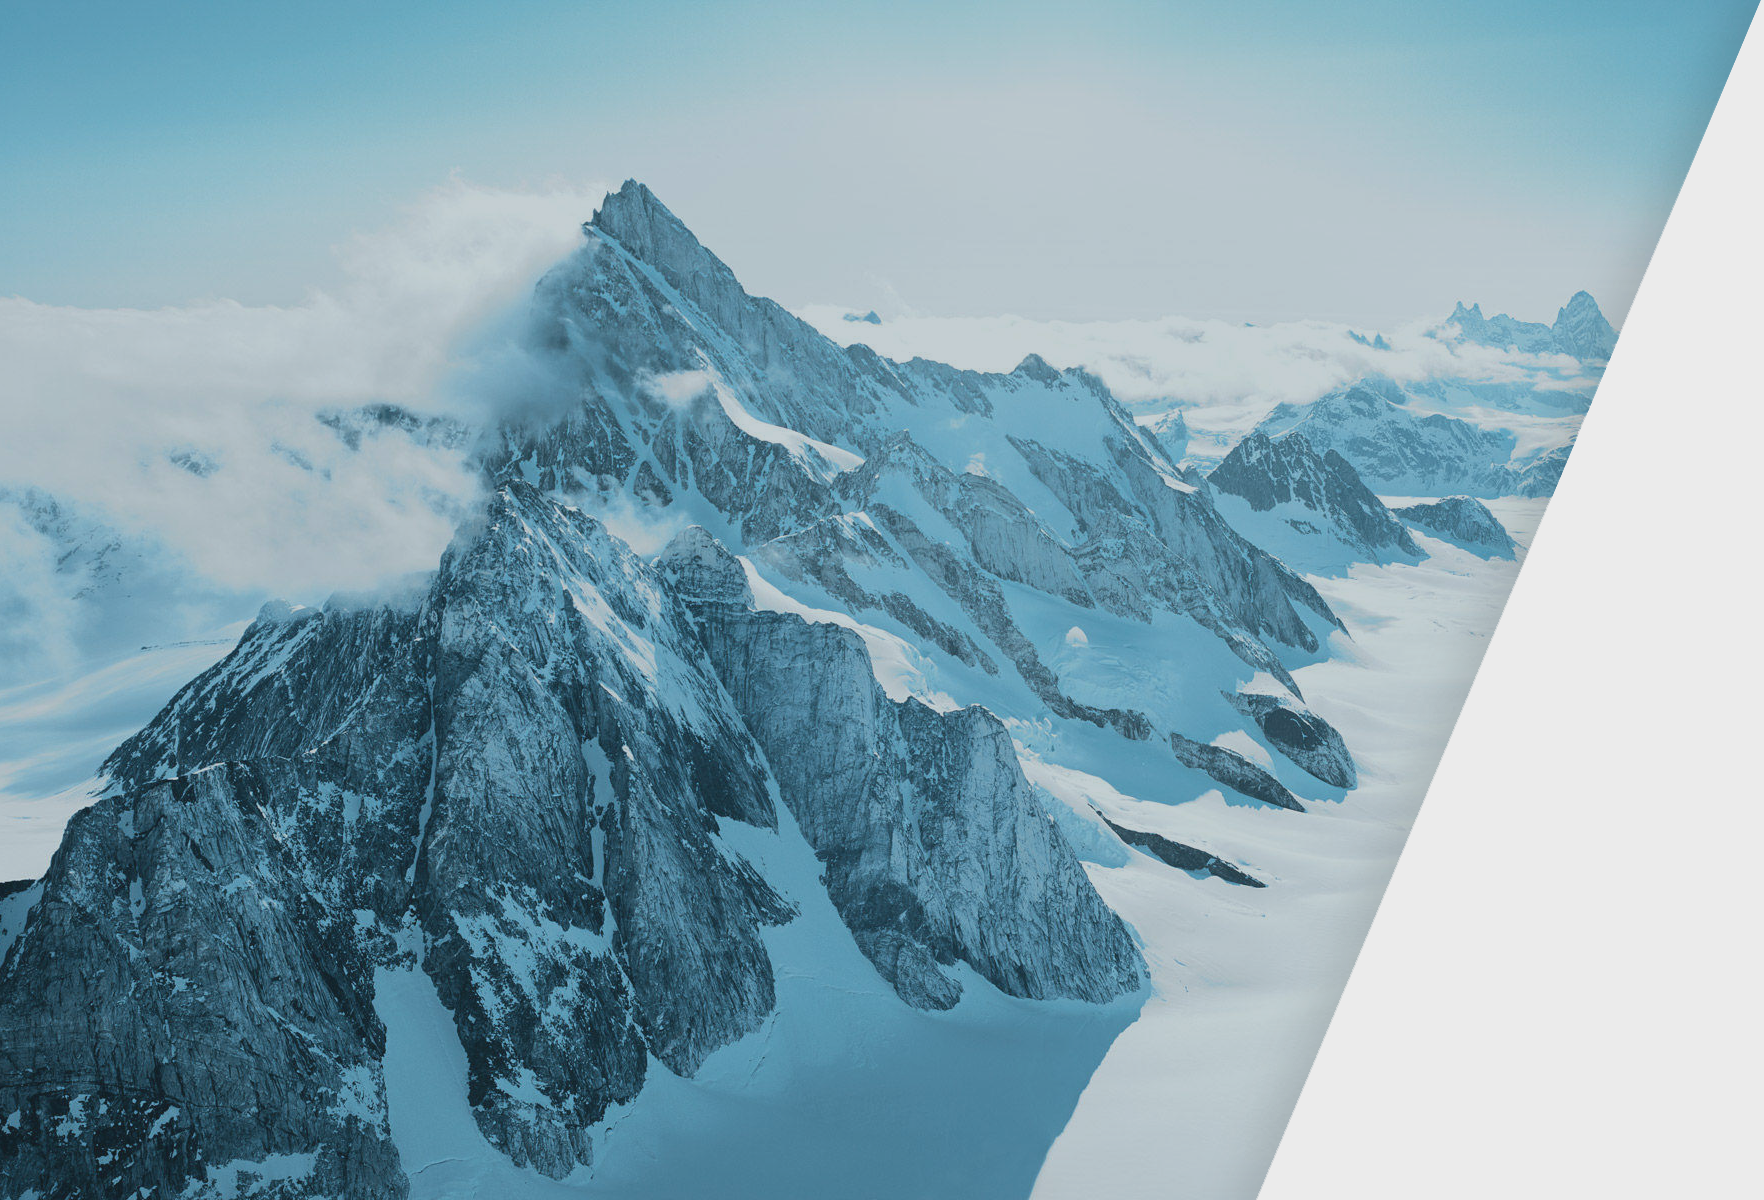
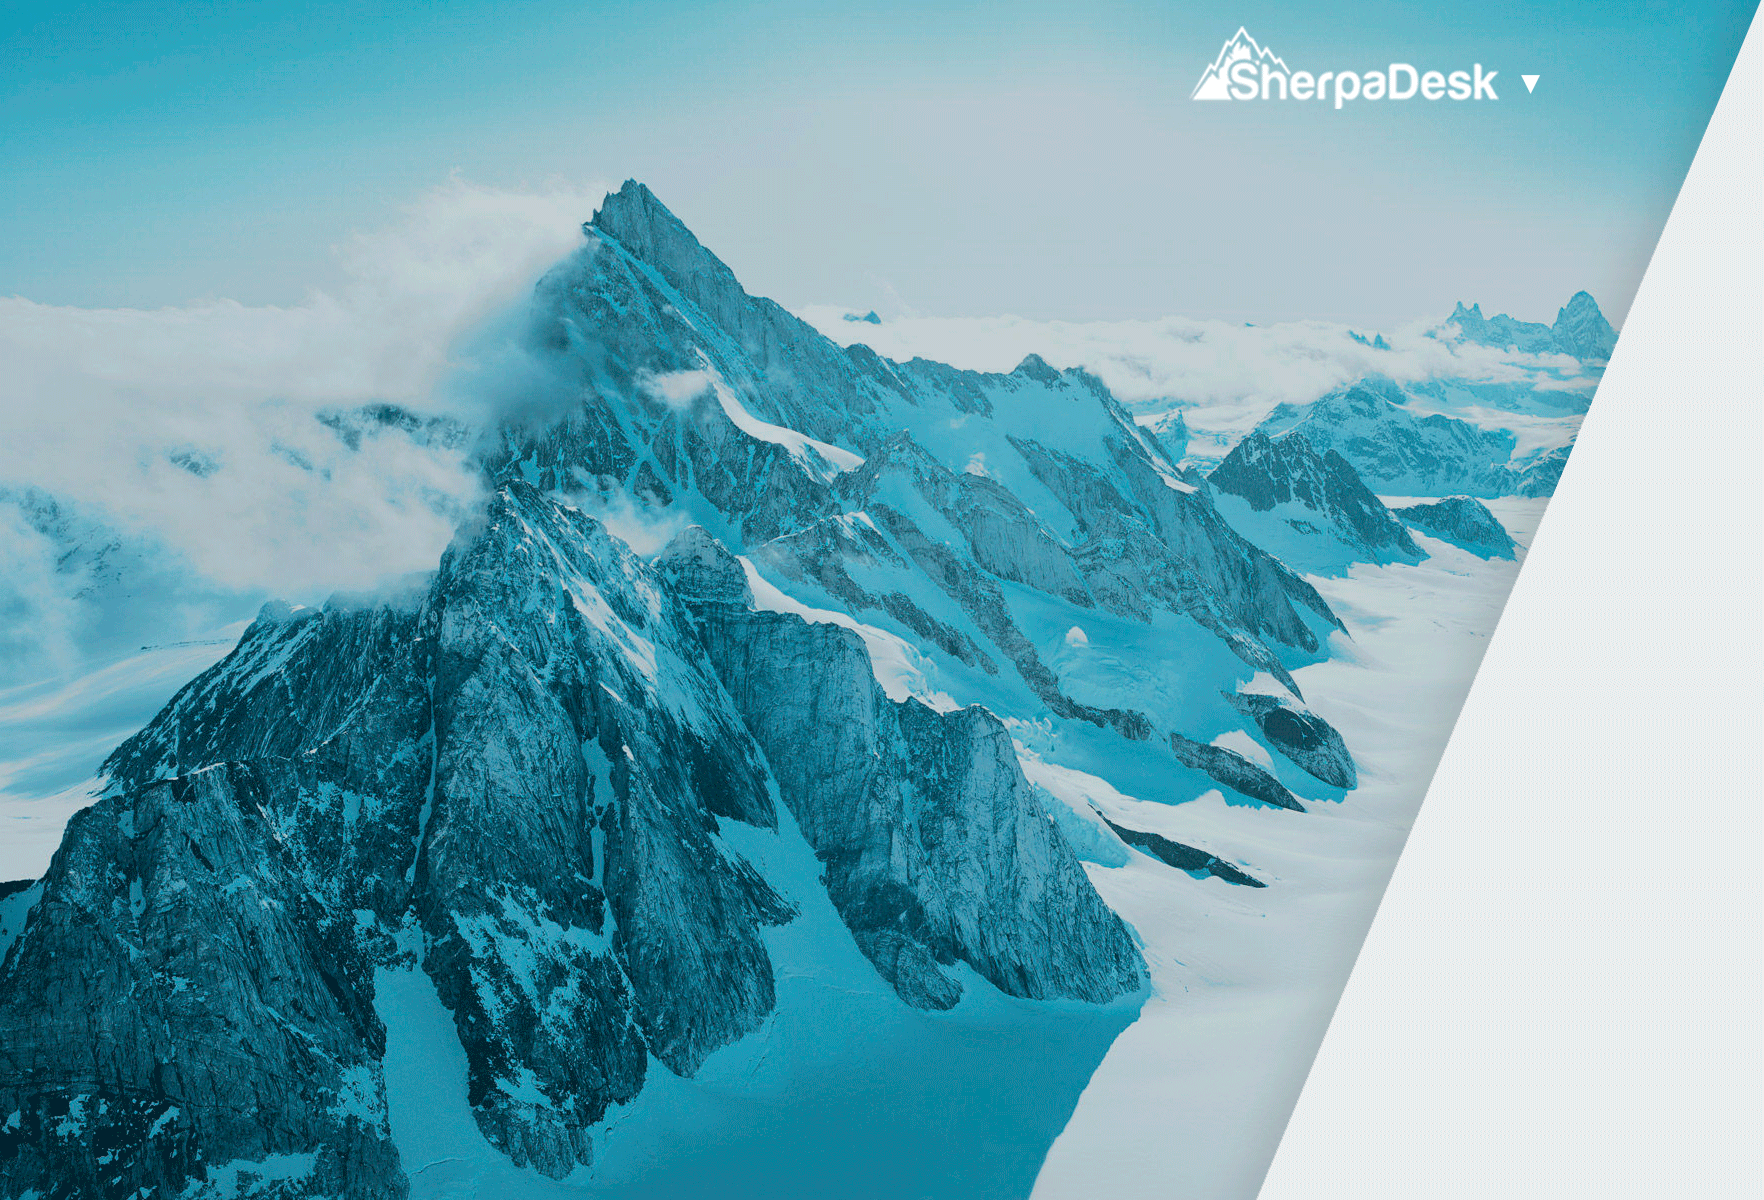
Main page logout menu

diff --git a/SherpaDesk/Info.xaml b/SherpaDesk/Info.xaml
@@ -41,83 +41,103 @@
                 <Grid.RowDefinitions>
                     <RowDefinition />
                 </Grid.RowDefinitions>
-                <Grid Width="800" Height="500" HorizontalAlignment="Left" Margin="30,100,30,30" VerticalAlignment="Top">
-                    <Grid.Background>
-                        <LinearGradientBrush EndPoint="0.5,1" StartPoint="0.5,0">
-                            <GradientStop Color="#72585858"/>
-                            <GradientStop Color="#19040040" Offset="1"/>
-                        </LinearGradientBrush>
-                    </Grid.Background>
+                <Grid>
                     <Grid.RowDefinitions>
-                        <RowDefinition Height="auto" />
+                        <RowDefinition Height="100" />
                         <RowDefinition />
                     </Grid.RowDefinitions>
-                    <Grid Width="auto" HorizontalAlignment="Center">
+                    <Button HorizontalAlignment="Right" Style="{StaticResource TextButtonStyle}" Width="330" Margin="0,0,120,0" VerticalAlignment="Stretch" Background="Transparent" BorderBrush="Transparent">
+                        <Button.Flyout>
+                            <MenuFlyout>
+                                <MenuFlyout.MenuFlyoutPresenterStyle>
+                                    <Style TargetType="MenuFlyoutPresenter">
+                                        <Setter Property="BorderThickness" Value="0"/>
+                                        <Setter Property="Margin" Value="0,-15,0,0"/>
+                                    </Style>
+                                </MenuFlyout.MenuFlyoutPresenterStyle>
+                                <MenuFlyoutItem x:Name="SherpaDeskLink" Text="Visit SherpaDesk.com" Tapped="SherpaDeskLink_Tapped" />
+                                <MenuFlyoutItem x:Name="LogOutMenu" Text="Logout" Tapped="LogOutMenu_Tapped" />
+                            </MenuFlyout>
+                        </Button.Flyout>
+                    </Button>
+                    <Grid Width="800" Height="500" Grid.Row="1" HorizontalAlignment="Left" Margin="30,0,30,30" VerticalAlignment="Top">
+                        <Grid.Background>
+                            <LinearGradientBrush EndPoint="0.5,1" StartPoint="0.5,0">
+                                <GradientStop Color="#72585858"/>
+                                <GradientStop Color="#19040040" Offset="1"/>
+                            </LinearGradientBrush>
+                        </Grid.Background>
                         <Grid.RowDefinitions>
                             <RowDefinition Height="auto" />
+                            <RowDefinition />
                         </Grid.RowDefinitions>
-                        <Grid.ColumnDefinitions>
-                            <ColumnDefinition Width="auto" />
-                            <ColumnDefinition Width="auto" />
-                            <ColumnDefinition Width="auto" />
-                        </Grid.ColumnDefinitions>
-                        <TextBlock Name="OpenCount" Foreground="White" Text="0" FontSize="180" Height="auto" HorizontalAlignment="Center" />
-                        <TextBlock Text="Open Tickets" Foreground="White" FontSize="30" HorizontalAlignment="Center" VerticalAlignment="Bottom" />
-                        <Image Grid.Column="1" HorizontalAlignment="Left" Margin="60,20,60,0" VerticalAlignment="Center" Source="Assets/Images/home-line-devider.png"/>
-                        <Grid Grid.Column="2" Height="auto" VerticalAlignment="Center" Margin="0,25,0,0">
-                            <Grid.ColumnDefinitions>
-                                <ColumnDefinition />
-                                <ColumnDefinition />
-                            </Grid.ColumnDefinitions>
-                            <Grid.RowDefinitions>
-                                <RowDefinition Height="auto" />
-                                <RowDefinition Height="auto" />
-                                <RowDefinition Height="auto" />
-                            </Grid.RowDefinitions>
-                            <TextBlock Name="OpenAsEndUserCount" Foreground="White" Text="0" FontSize="45" HorizontalAlignment="Right" />
-                            <TextBlock Name="OpenAsTechCount" Foreground="White" Text="0" Grid.Row="1" FontSize="45" HorizontalAlignment="Right" />
-                            <TextBlock Name="OpenAsAltTechCount" Foreground="White" Text="0" Grid.Row="2" FontSize="45" HorizontalAlignment="Right" />
-                            <TextBlock Text="As User" Foreground="White" Margin="10,0,0,5" Grid.Column="1" FontSize="30" VerticalAlignment="Bottom" />
-                            <TextBlock Text="As Tech" Foreground="White" Margin="10,0,0,5" Grid.Column="1" Grid.Row="1" FontSize="30" VerticalAlignment="Bottom" />
-                            <TextBlock Text="Alt Tech" Foreground="White" Margin="10,0,0,4" Grid.Column="1" Grid.Row="2" FontSize="30" VerticalAlignment="Bottom" />
-                        </Grid>
-                    </Grid>
-                    <Grid Grid.Row="1" Margin="20,20,20,20" Height="auto">
-                        <Grid Height="auto">
-                            <Grid.ColumnDefinitions>
-                                <ColumnDefinition />
-                                <ColumnDefinition />
-                                <ColumnDefinition />
-                                <ColumnDefinition />
-                            </Grid.ColumnDefinitions>
+                        <Grid Width="auto" HorizontalAlignment="Center">
                             <Grid.RowDefinitions>
                                 <RowDefinition Height="auto" />
                             </Grid.RowDefinitions>
-                            <TextBlock Grid.Column="1" Foreground="White" Text="Hours" FontSize="22" HorizontalAlignment="Center" />
-                            <TextBlock Grid.Column="2" Foreground="White" Text="Expenses" FontSize="22" HorizontalAlignment="Center" />
-                            <TextBlock Grid.Column="3" Foreground="White" Text="Tickets" FontSize="22" HorizontalAlignment="Center" />
+                            <Grid.ColumnDefinitions>
+                                <ColumnDefinition Width="auto" />
+                                <ColumnDefinition Width="auto" />
+                                <ColumnDefinition Width="auto" />
+                            </Grid.ColumnDefinitions>
+                            <TextBlock Name="OpenCount" Foreground="White" Text="0" FontSize="180" Height="auto" HorizontalAlignment="Center" />
+                            <TextBlock Text="Open Tickets" Foreground="White" FontSize="30" HorizontalAlignment="Center" VerticalAlignment="Bottom" />
+                            <Image Grid.Column="1" HorizontalAlignment="Left" Margin="60,20,60,0" VerticalAlignment="Center" Source="Assets/Images/home-line-devider.png"/>
+                            <Grid Grid.Column="2" Height="auto" VerticalAlignment="Center" Margin="0,25,0,0">
+                                <Grid.ColumnDefinitions>
+                                    <ColumnDefinition />
+                                    <ColumnDefinition />
+                                </Grid.ColumnDefinitions>
+                                <Grid.RowDefinitions>
+                                    <RowDefinition Height="auto" />
+                                    <RowDefinition Height="auto" />
+                                    <RowDefinition Height="auto" />
+                                </Grid.RowDefinitions>
+                                <TextBlock Name="OpenAsEndUserCount" Foreground="White" Text="0" FontSize="45" HorizontalAlignment="Right" />
+                                <TextBlock Name="OpenAsTechCount" Foreground="White" Text="0" Grid.Row="1" FontSize="45" HorizontalAlignment="Right" />
+                                <TextBlock Name="OpenAsAltTechCount" Foreground="White" Text="0" Grid.Row="2" FontSize="45" HorizontalAlignment="Right" />
+                                <TextBlock Text="As User" Foreground="White" Margin="10,0,0,5" Grid.Column="1" FontSize="30" VerticalAlignment="Bottom" />
+                                <TextBlock Text="As Tech" Foreground="White" Margin="10,0,0,5" Grid.Column="1" Grid.Row="1" FontSize="30" VerticalAlignment="Bottom" />
+                                <TextBlock Text="Alt Tech" Foreground="White" Margin="10,0,0,4" Grid.Column="1" Grid.Row="2" FontSize="30" VerticalAlignment="Bottom" />
+                            </Grid>
                         </Grid>
-                        <ListView x:Name="StatInfoList" ScrollViewer.VerticalScrollMode="Enabled" ScrollViewer.VerticalScrollBarVisibility="Auto" HorizontalAlignment="Stretch"  Margin="0,40,0,0" SelectionMode="None">
-                            <ListView.ItemTemplate>
-                                <DataTemplate>
-                                    <Grid Width="760">
-                                        <Grid.ColumnDefinitions>
-                                            <ColumnDefinition />
-                                            <ColumnDefinition />
-                                            <ColumnDefinition />
-                                            <ColumnDefinition />
-                                        </Grid.ColumnDefinitions>
-                                        <Grid.RowDefinitions>
-                                            <RowDefinition />
-                                        </Grid.RowDefinitions>
-                                        <TextBlock Text="{Binding AccountName}" Foreground="White" FontSize="22" HorizontalAlignment="Left" />
-                                        <TextBlock Text="{Binding UninvoicedTimes}" Grid.Column="1" Foreground="White" FontSize="22" FontWeight="Bold" HorizontalAlignment="Center" />
-                                        <TextBlock Text="{Binding UnInvoicedExpenses}" Grid.Column="2" Foreground="White" FontSize="22" FontWeight="Bold" HorizontalAlignment="Center" />
-                                        <TextBlock Text="{Binding OpenTickets}" Grid.Column="3" Foreground="White" FontSize="22" FontWeight="Bold" HorizontalAlignment="Center" />
-                                    </Grid>
-                                </DataTemplate>
-                            </ListView.ItemTemplate>
-                        </ListView>
+                        <Grid Grid.Row="1" Margin="20,20,20,20" Height="auto">
+                            <Grid Height="auto">
+                                <Grid.ColumnDefinitions>
+                                    <ColumnDefinition />
+                                    <ColumnDefinition />
+                                    <ColumnDefinition />
+                                    <ColumnDefinition />
+                                </Grid.ColumnDefinitions>
+                                <Grid.RowDefinitions>
+                                    <RowDefinition Height="auto" />
+                                </Grid.RowDefinitions>
+                                <TextBlock Grid.Column="1" Foreground="White" Text="Hours" FontSize="22" HorizontalAlignment="Center" />
+                                <TextBlock Grid.Column="2" Foreground="White" Text="Expenses" FontSize="22" HorizontalAlignment="Center" />
+                                <TextBlock Grid.Column="3" Foreground="White" Text="Tickets" FontSize="22" HorizontalAlignment="Center" />
+                            </Grid>
+                            <ListView x:Name="StatInfoList" ScrollViewer.VerticalScrollMode="Enabled" ScrollViewer.VerticalScrollBarVisibility="Auto" HorizontalAlignment="Stretch"  Margin="0,40,0,0" SelectionMode="None">
+                                <ListView.ItemTemplate>
+                                    <DataTemplate>
+                                        <Grid Width="760">
+                                            <Grid.ColumnDefinitions>
+                                                <ColumnDefinition />
+                                                <ColumnDefinition />
+                                                <ColumnDefinition />
+                                                <ColumnDefinition />
+                                            </Grid.ColumnDefinitions>
+                                            <Grid.RowDefinitions>
+                                                <RowDefinition />
+                                            </Grid.RowDefinitions>
+                                            <TextBlock Text="{Binding AccountName}" Foreground="White" FontSize="22" HorizontalAlignment="Left" />
+                                            <TextBlock Text="{Binding UninvoicedTimes}" Grid.Column="1" Foreground="White" FontSize="22" FontWeight="Bold" HorizontalAlignment="Center" />
+                                            <TextBlock Text="{Binding UnInvoicedExpenses}" Grid.Column="2" Foreground="White" FontSize="22" FontWeight="Bold" HorizontalAlignment="Center" />
+                                            <TextBlock Text="{Binding OpenTickets}" Grid.Column="3" Foreground="White" FontSize="22" FontWeight="Bold" HorizontalAlignment="Center" />
+                                        </Grid>
+                                    </DataTemplate>
+                                </ListView.ItemTemplate>
+                            </ListView>
+                        </Grid>
                     </Grid>
                 </Grid>
             </Grid>

diff --git a/SherpaDesk/Styles/StandardStyles.xaml b/SherpaDesk/Styles/StandardStyles.xaml
@@ -260,20 +260,8 @@
                         <VisualStateManager.VisualStateGroups>
                             <VisualStateGroup x:Name="CommonStates">
                                 <VisualState x:Name="Normal"/>
-                                <VisualState x:Name="PointerOver">
-                                    <Storyboard>
-                                        <ObjectAnimationUsingKeyFrames Storyboard.TargetName="Text" Storyboard.TargetProperty="Foreground">
-                                            <DiscreteObjectKeyFrame KeyTime="0" Value="{StaticResource ApplicationPointerOverForegroundThemeBrush}"/>
-                                        </ObjectAnimationUsingKeyFrames>
-                                    </Storyboard>
-                                </VisualState>
-                                <VisualState x:Name="Pressed">
-                                    <Storyboard>
-                                        <ObjectAnimationUsingKeyFrames Storyboard.TargetName="Text" Storyboard.TargetProperty="Foreground">
-                                            <DiscreteObjectKeyFrame KeyTime="0" Value="{StaticResource ApplicationPressedForegroundThemeBrush}"/>
-                                        </ObjectAnimationUsingKeyFrames>
-                                    </Storyboard>
-                                </VisualState>
+                                <VisualState x:Name="PointerOver" />
+                                <VisualState x:Name="Pressed" />
                                 <VisualState x:Name="Disabled">
                                     <Storyboard>
                                         <ObjectAnimationUsingKeyFrames Storyboard.TargetName="Text" Storyboard.TargetProperty="Foreground">

diff --git a/SherpaDesk/Info.xaml.cs b/SherpaDesk/Info.xaml.cs
@@ -114,5 +114,26 @@ namespace SherpaDesk
                 page.ScrollViewer.ChangeView(0, null, null);
             });
         }
+
+        private void LogOutMenu_Tapped(object sender, Windows.UI.Xaml.Input.TappedRoutedEventArgs e)
+        {
+            //if (AppSettings.Current.Single)
+            //{
+            //    //if (await App.ConfirmMessage())
+            //    //{
+            //        AppSettings.Current.Clear();
+            //        this.Frame.Navigate(typeof(Login));
+            //    //}
+            //}
+            //else
+            //{
+            //    this.Frame.Navigate(typeof(Organization));
+            //}
+        }
+
+        private void SherpaDeskLink_Tapped(object sender, Windows.UI.Xaml.Input.TappedRoutedEventArgs e)
+        {
+            Windows.System.Launcher.LaunchUriAsync(new Uri("http://www.sherpadesk.com"));
+        }
     }
 }
